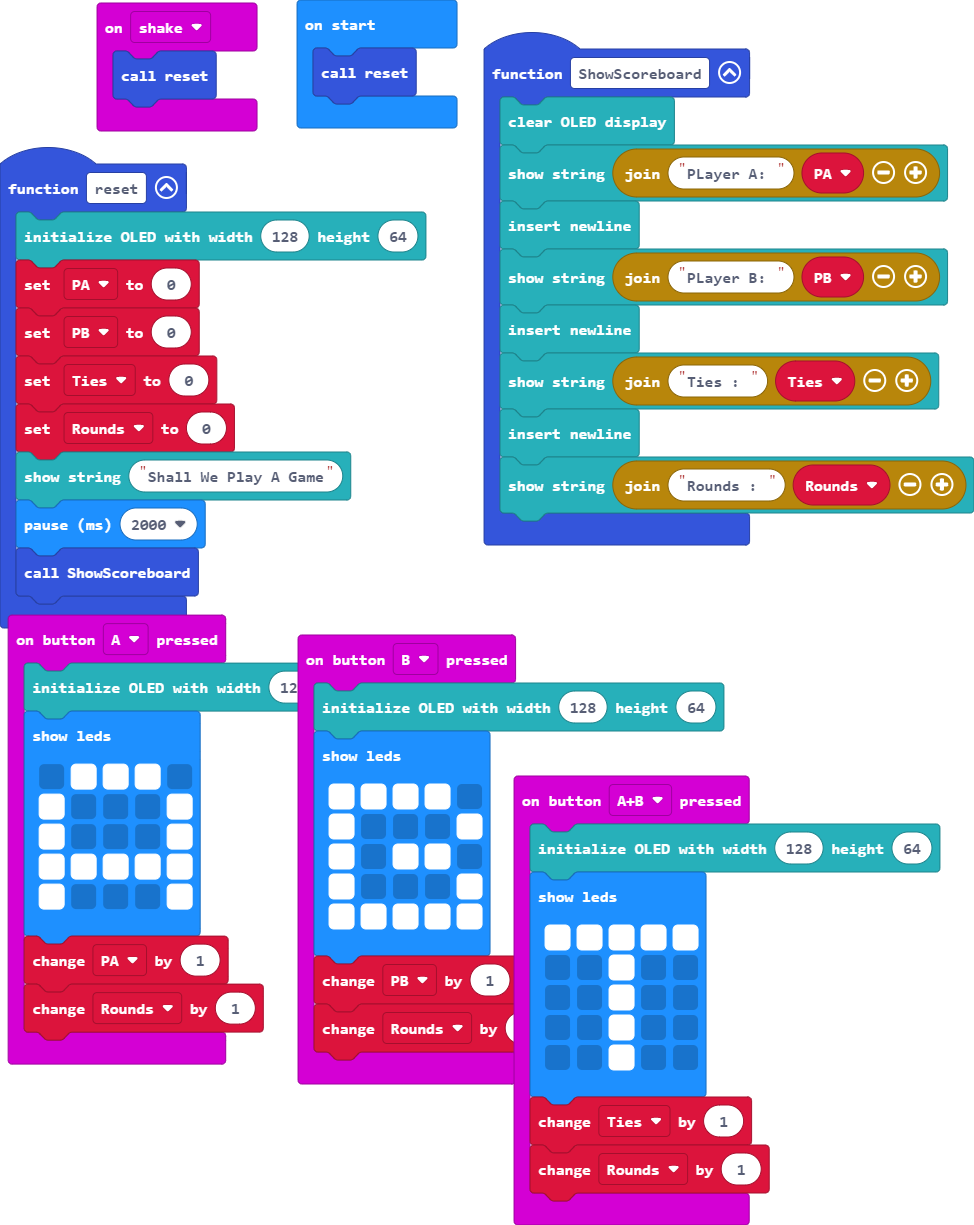
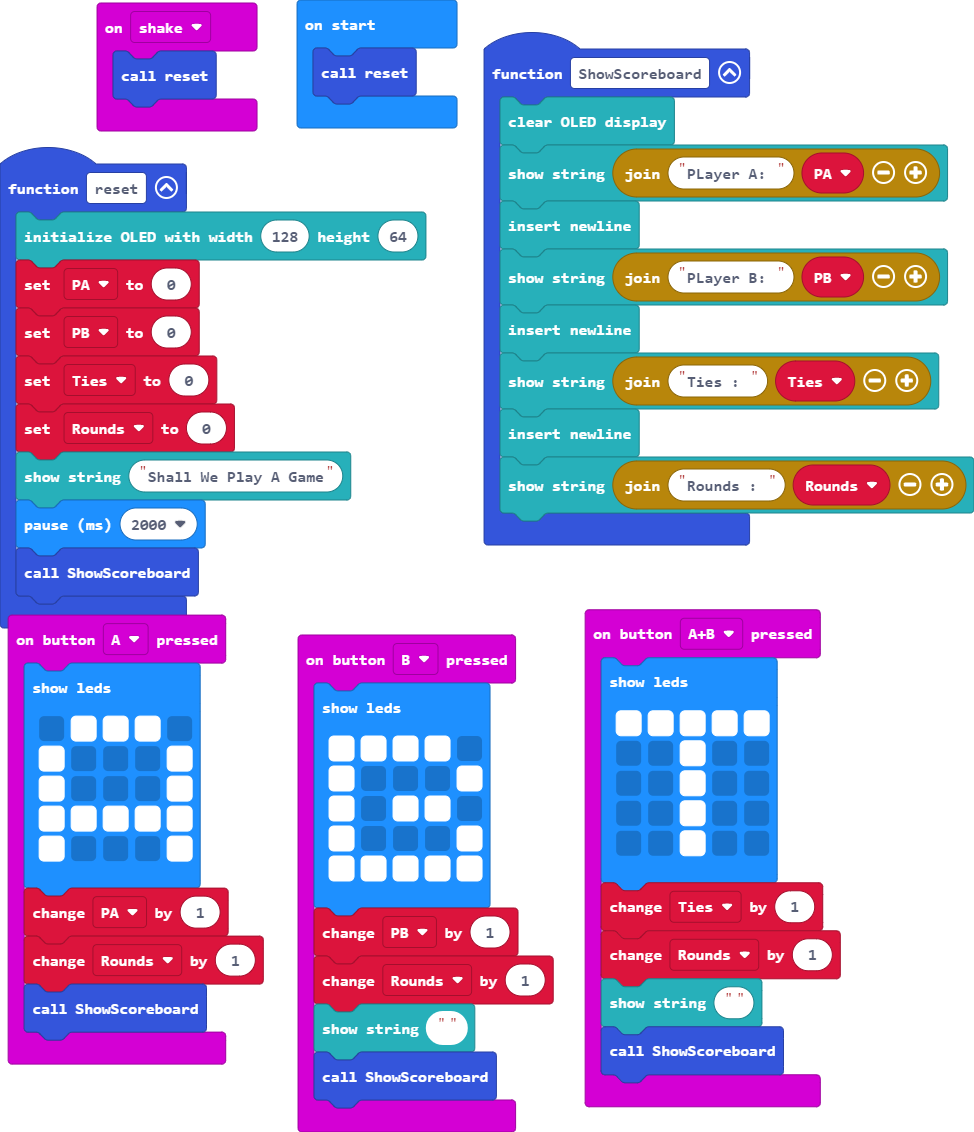
Update main.blocks, main.ts

diff --git a/main.ts b/main.ts
@@ -1,5 +1,4 @@
 input.onButtonPressed(Button.A, function () {
-    OLED.init(128, 64)
     basic.showLeds(`
         . # # # .
         # . . . #
@@ -9,6 +8,7 @@ input.onButtonPressed(Button.A, function () {
         `)
     PA += 1
     Rounds += 1
+    ShowScoreboard()
 })
 function ShowScoreboard () {
     OLED.clear()
@@ -21,7 +21,6 @@ function ShowScoreboard () {
     OLED.writeStringNewLine("Rounds : " + Rounds)
 }
 input.onButtonPressed(Button.AB, function () {
-    OLED.init(128, 64)
     basic.showLeds(`
         # # # # #
         . . # . .
@@ -31,9 +30,10 @@ input.onButtonPressed(Button.AB, function () {
         `)
     Ties += 1
     Rounds += 1
+    OLED.writeStringNewLine("")
+    ShowScoreboard()
 })
 input.onButtonPressed(Button.B, function () {
-    OLED.init(128, 64)
     basic.showLeds(`
         # # # # .
         # . . . #
@@ -43,6 +43,8 @@ input.onButtonPressed(Button.B, function () {
         `)
     PB += 1
     Rounds += 1
+    OLED.writeStringNewLine("")
+    ShowScoreboard()
 })
 input.onGesture(Gesture.Shake, function () {
     reset()
